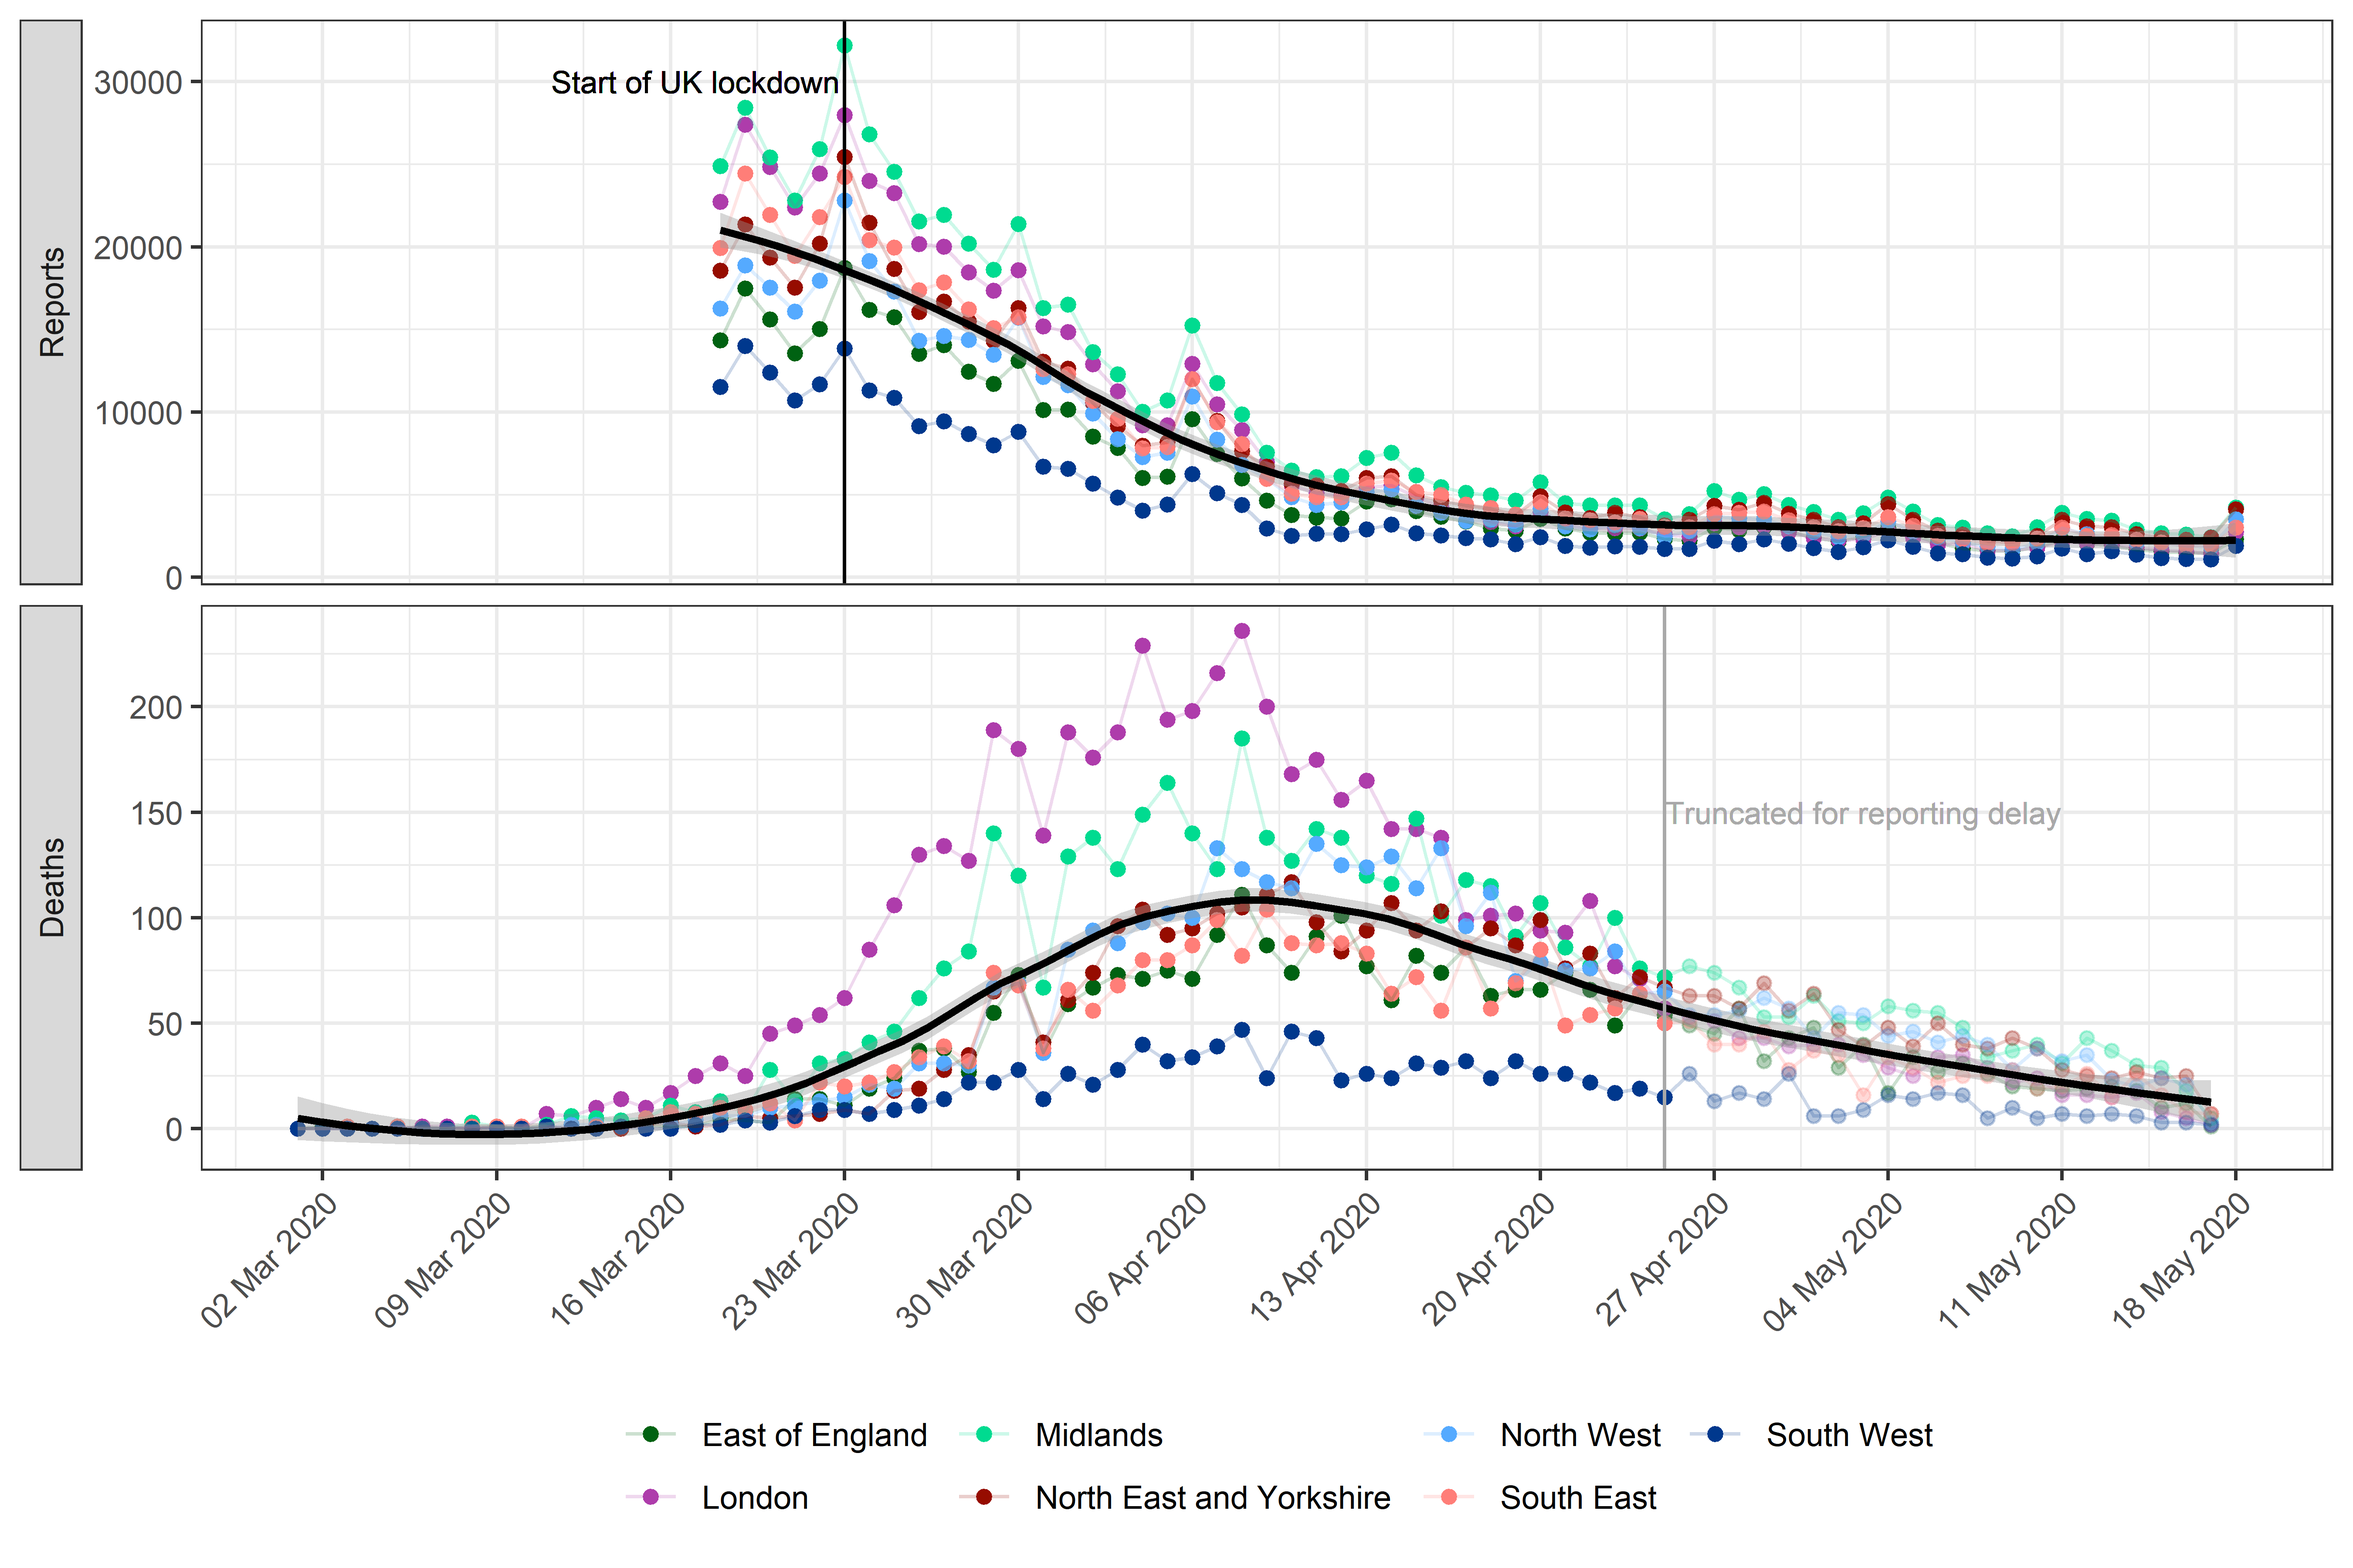
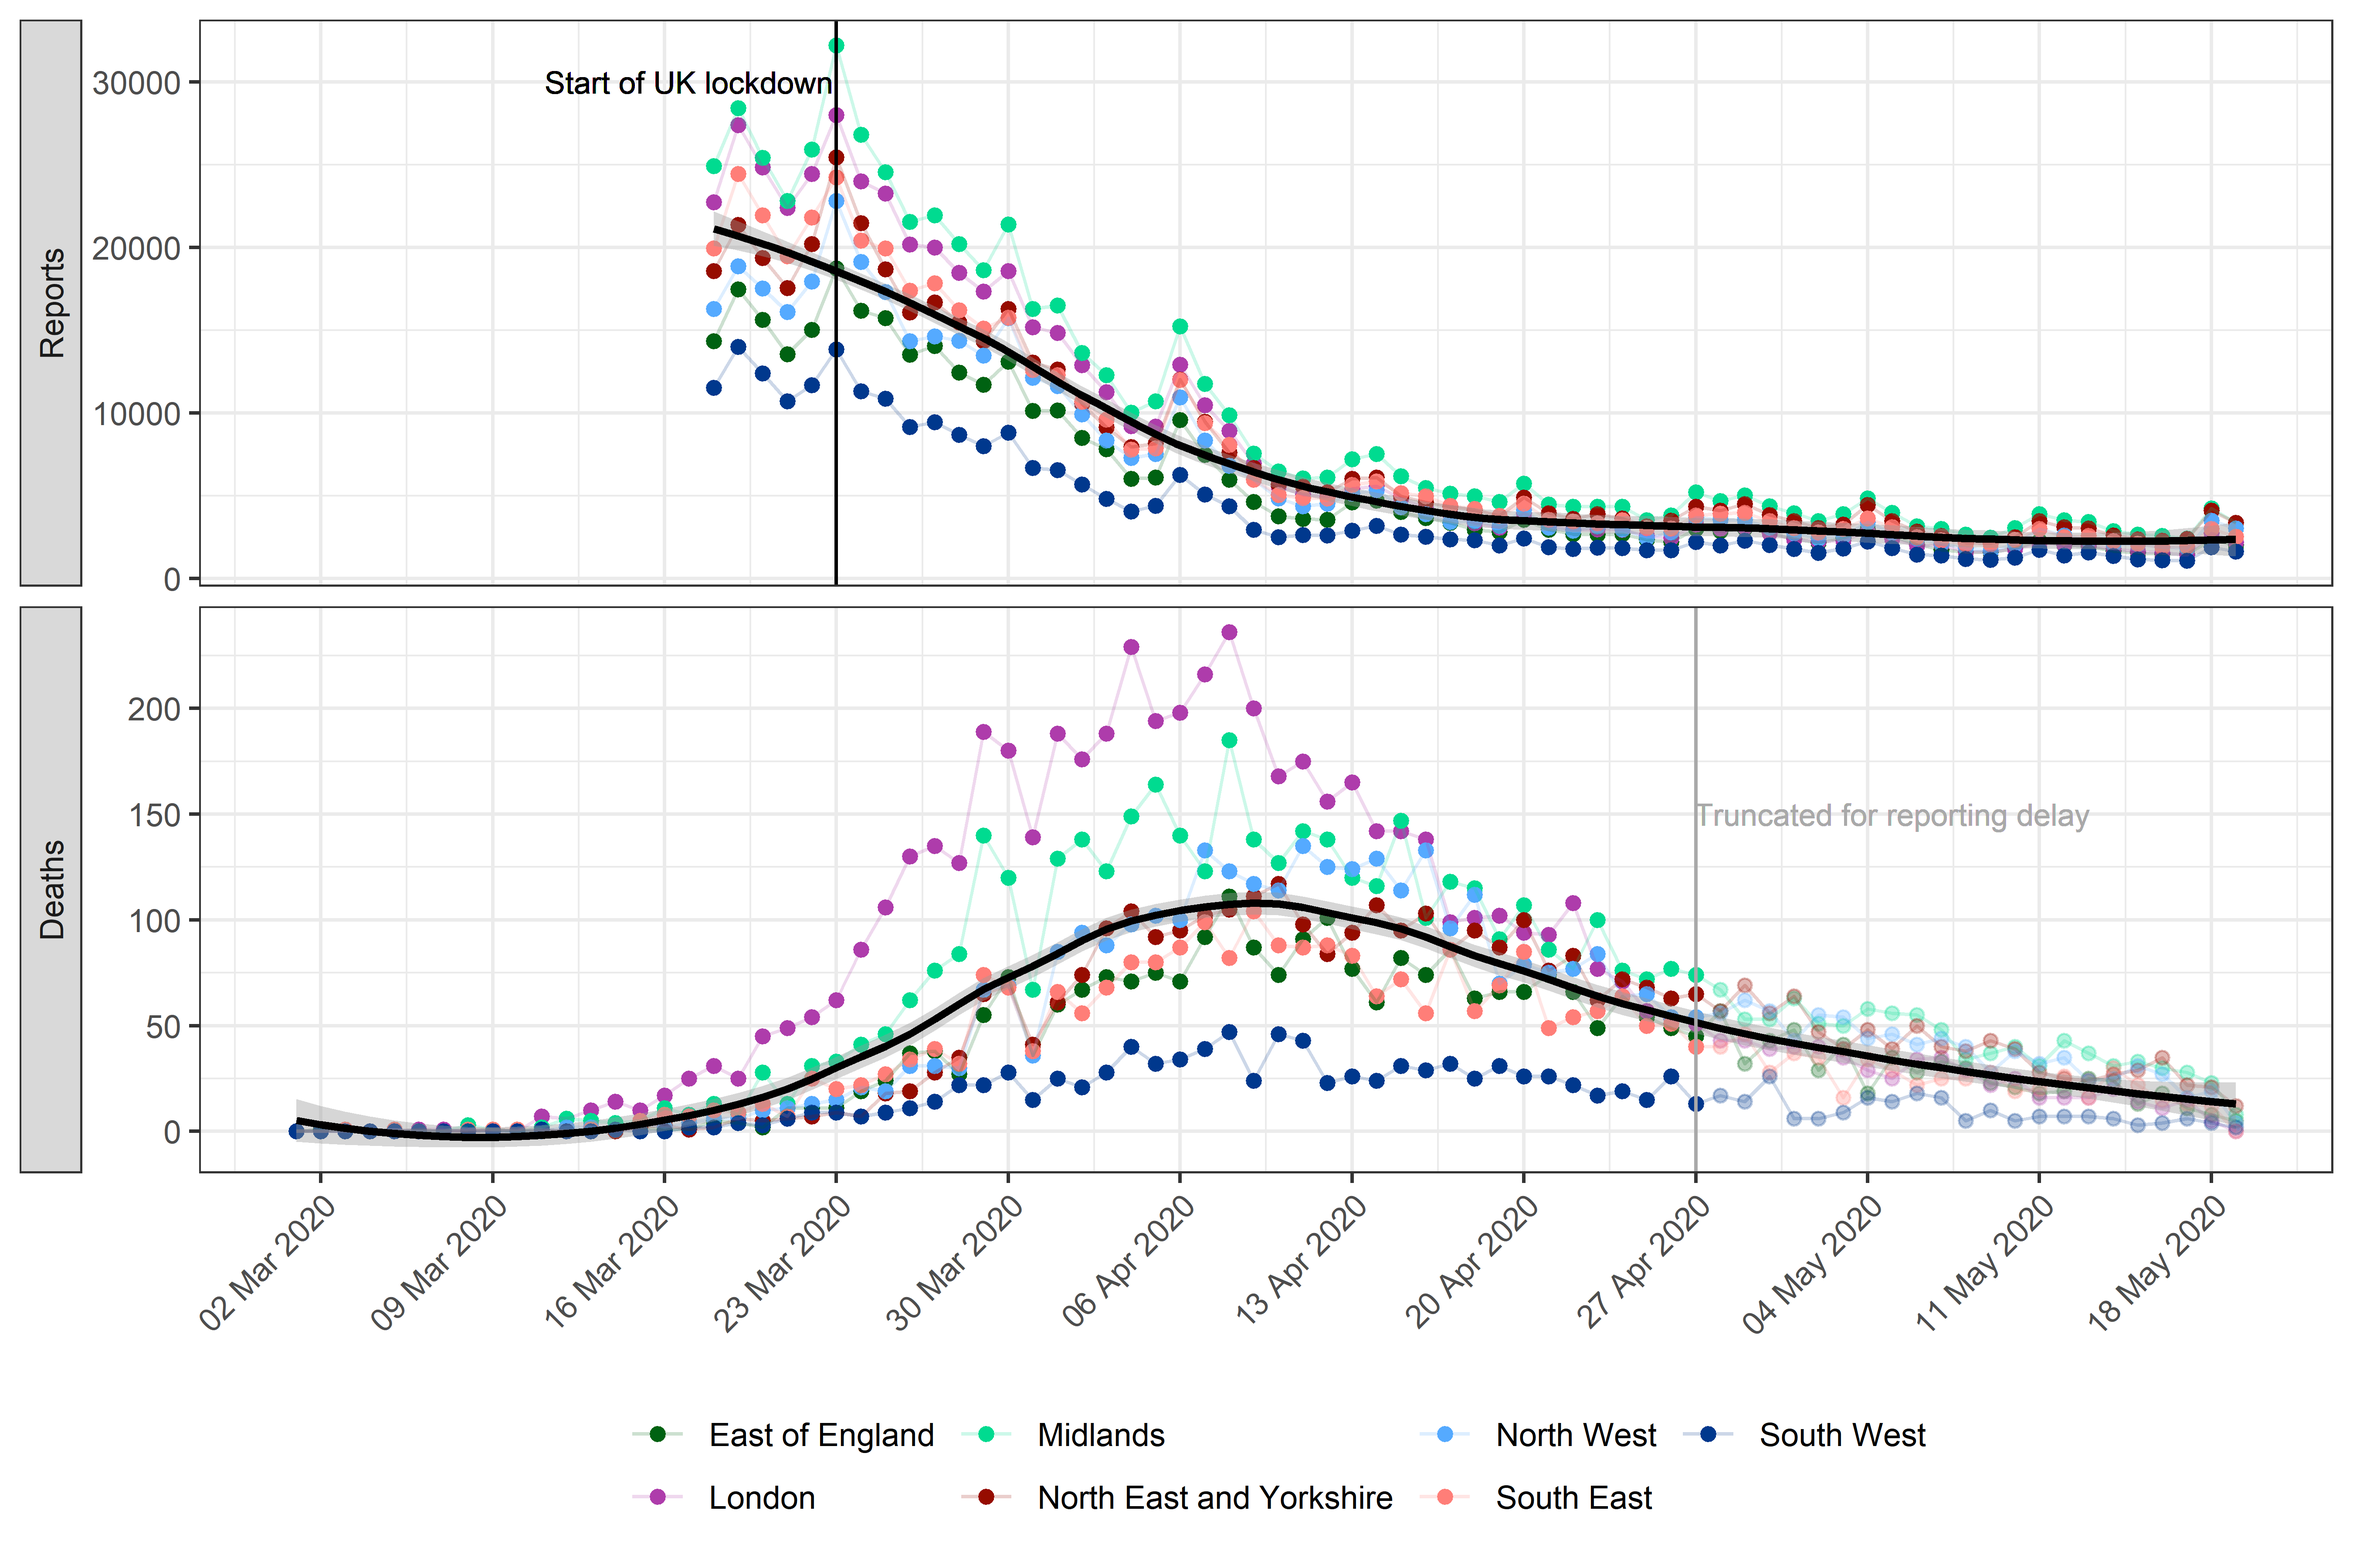
update nhs paths post

diff --git a/topics/covid19/_posts/2020-05-18-nhs-pathways.md b/topics/covid19/_posts/2020-05-18-nhs-pathways.md
@@ -3,7 +3,7 @@ title: Analysis of temporal trends in potential COVID-19 cases reported through 
 description: We analyse publicly available data on self-reported COVID-19 symptoms and deaths in England
 tags: transmission-dynamics
 status: real-time-report
-update: 2020-05-19
+update: 2020-05-20 
 authors:
   - id: quentin_leclerc
     equal: 1
@@ -20,7 +20,9 @@ authors:
 
 ***This is a summary of the latest trends seen in potential COVID-19
 cases reported through NHS Pathways. The results presented here include
-data up to 2020-05-18.***
+data up to 2020-05-19. For a full discussion of this analysis, please
+refer to our paper available
+[here](https://www.medrxiv.org/content/10.1101/2020.05.16.20103820v1)***
 
 Introduction
 ------------
@@ -41,7 +43,7 @@ better reflect milder cases and be less biased by different severity
 profiles than hospital admission data, which by definition reflect the
 most acute cases.
 
-Here, we analyse NHS Pathways data until 2020-05-18 to assess the
+Here, we analyse NHS Pathways data until 2020-05-19 to assess the
 temporal dynamics of COVID-19 in England. Specifically, we investigated
 potential changes in the growth rate of the epidemic over time, and
 compared the observed patterns across NHS regions. We derived
@@ -58,7 +60,7 @@ an early detection system.
 Latest results
 --------------
 
-***The results below were generated with data up to 2020-05-18.***
+***The results below were generated with data up to 2020-05-19.***
 
 ### Numbers of daily NHS Pathways report and NHS COVID-19 deaths
 
@@ -103,17 +105,17 @@ of 0.627 (95% CI: 0.488 ; 0.788).
 
 The most recent estimate of
 *r*
-averaged over all NHS regions is -0.018 (95% CI: -0.053 ; 0.017),
+averaged over all NHS regions is -0.009 (95% CI: -0.046 ; 0.027),
 corresponding to an
 *R*<sub>*e*</sub>
-of 0.918 (95% CI: 0.771 ; 1.082).
+of 0.956 (95% CI: 0.797 ; 1.135).
 
 ### Correlation between NHS Pathways reports and deaths
 
 Figure 3 illustrates the observed trend in correlation across all tested
 lags. The strongest correlation between NHS Pathways reports and deaths
-was obtained with a lag of 16 days (Pearson’s correlation = 0.95; 95%
-CI: 0.89 ; 0.97).
+was obtained with a lag of 16 days (Pearson’s correlation = 0.96; 95%
+CI: 0.92 ; 0.98).
 
 Estimates become increasingly unstable for longer lags as the number of
 points within the overlapping time window becomes small.
@@ -128,13 +130,13 @@ replicates.*
 
 <br>
 
-Fitting a quasi-Poisson GLM, we found that over 87.7% of the deviance in
+Fitting a quasi-Poisson GLM, we found that over 88.7% of the deviance in
 daily reported deaths could potentially be explained by NHS Pathways
-reports 16 days prior, with an average of 2.03 (bootstrap 95% CI: 1.54 ;
-2.6) additional deaths for every 1,000 potential COVID-19 cases reported
-in NHS Pathways 16 days before (intercept = 348, 95% CI: 314 ; 386; %
-increase per 1000 notifications = 0.01, 95% CI: 0.49 ; 0.67)) (Figure
-4).
+reports 16 days prior, with an average of 2.07 (bootstrap 95% CI: 1.6 ;
+2.62) additional deaths for every 1,000 potential COVID-19 cases
+reported in NHS Pathways 16 days before (intercept = 329, 95% CI: 298 ;
+363; % increase per 1000 notifications = 0.01, 95% CI: 0.54 ; 0.72))
+(Figure 4).
 
 <br>
 
@@ -156,7 +158,7 @@ Methods
 
 ### Data extraction
 
-We extracted the NHS Pathways data up to 2020-05-18 through the NHS
+We extracted the NHS Pathways data up to 2020-05-19 through the NHS
 Digital website \[1\], where they are updated daily, every weekday. The
 number of reports are stratified by Clinical Commissioning Group (CCG),
 gender and age group (0-18, 19-69 and 70-120 years old) of the patients.
@@ -181,7 +183,7 @@ maximum-likelihood.
 
 To assess potential changes of the growth rate over time, analyses were
 performed over rolling windows of 14 days from the earliest available
-date (2020-03-18) to the latest available one (2020-05-18). Growth rates
+date (2020-03-18) to the latest available one (2020-05-19). Growth rates
 and associated confidence intervals were calculated for each time
 window. Whenever the upper bound of *r* was negative, corresponding
 halving times were calculated as *l**o**g*(0.5)/*r*. Growth rates were
